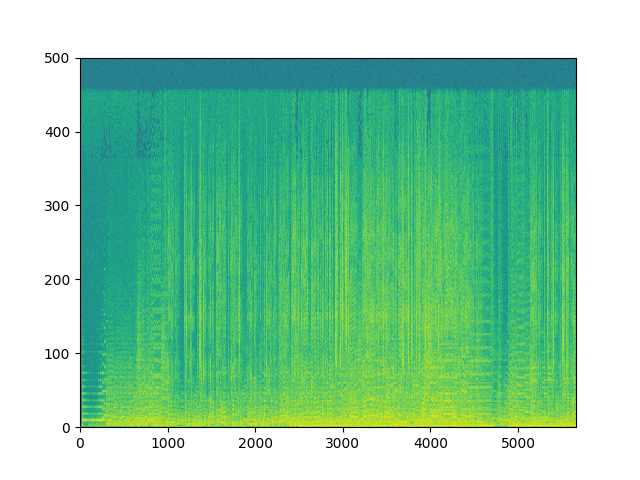
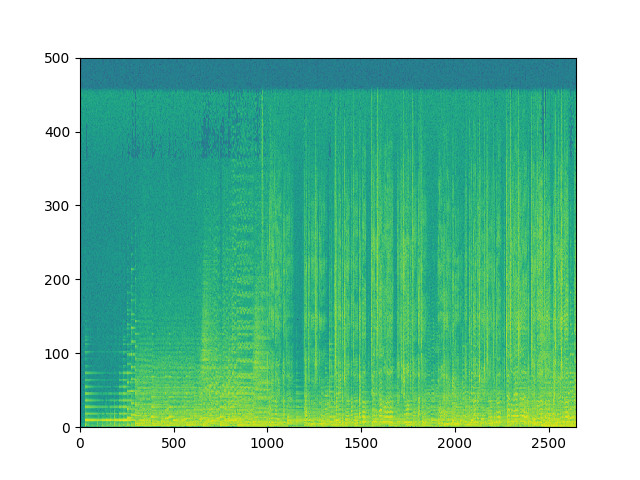
tune the graph

Changed region(s): [[0.125, 0.1875, 0.9062, 0.9375]]

diff --git a/readwav.py b/readwav.py
@@ -46,7 +46,7 @@ def read_wav(wav_file):
     nchannels, sampwidth, framerate, nframes = params[:4]
     print nchannels, sampwidth, framerate, nframes
 
-    n=nframes/2
+    n=60*framerate
     print n
 
     str_data = w.readframes(n)
@@ -73,7 +73,7 @@ def spectrum(wav_data, n, params, fan_value=DEFAULT_FAN_VALUE,
         pl.savefig('%s_pylab.png' %wav_file)
 
     plt.figure()
-    arr2D = plt.specgram(wav_data[0], NFFT=NFFT, Fs=Fs, noverlap=900)[0] # generate spectogram
+    arr2D = plt.specgram(wav_data[0], NFFT=NFFT, Fs=Fs, window=mlab.window_hanning, noverlap=900)[0] # generate spectogram
     plt.savefig('%s_k.png' %wav_file)
 
     arr2D = 10 * np.log10(arr2D)
@@ -123,8 +123,9 @@ def get_2D_peaks(arr2D, plot=False, amp_min=DEFAULT_AMP_MIN):
         ax.set_xlabel('Time')
         ax.set_ylabel('Frequency')
         ax.set_title("Spectrogram")
+        ax.axis('scaled')
         plt.gca().invert_yaxis()
-        plt.show()
+        plt.savefig('_peak.png')
 
     return zip(frequency_idx, time_idx)
 
@@ -147,6 +148,6 @@ for path, dirs, files in os.walk('/Users/RyanQu/Documents/Workspace/Git/Music_Ge
 
             print wav_data, n, params
 
-            print spectrum(wav_data, n, params, plot=False)
+            spectrum(wav_data, n, params, plot=False)
         except:
             continue
